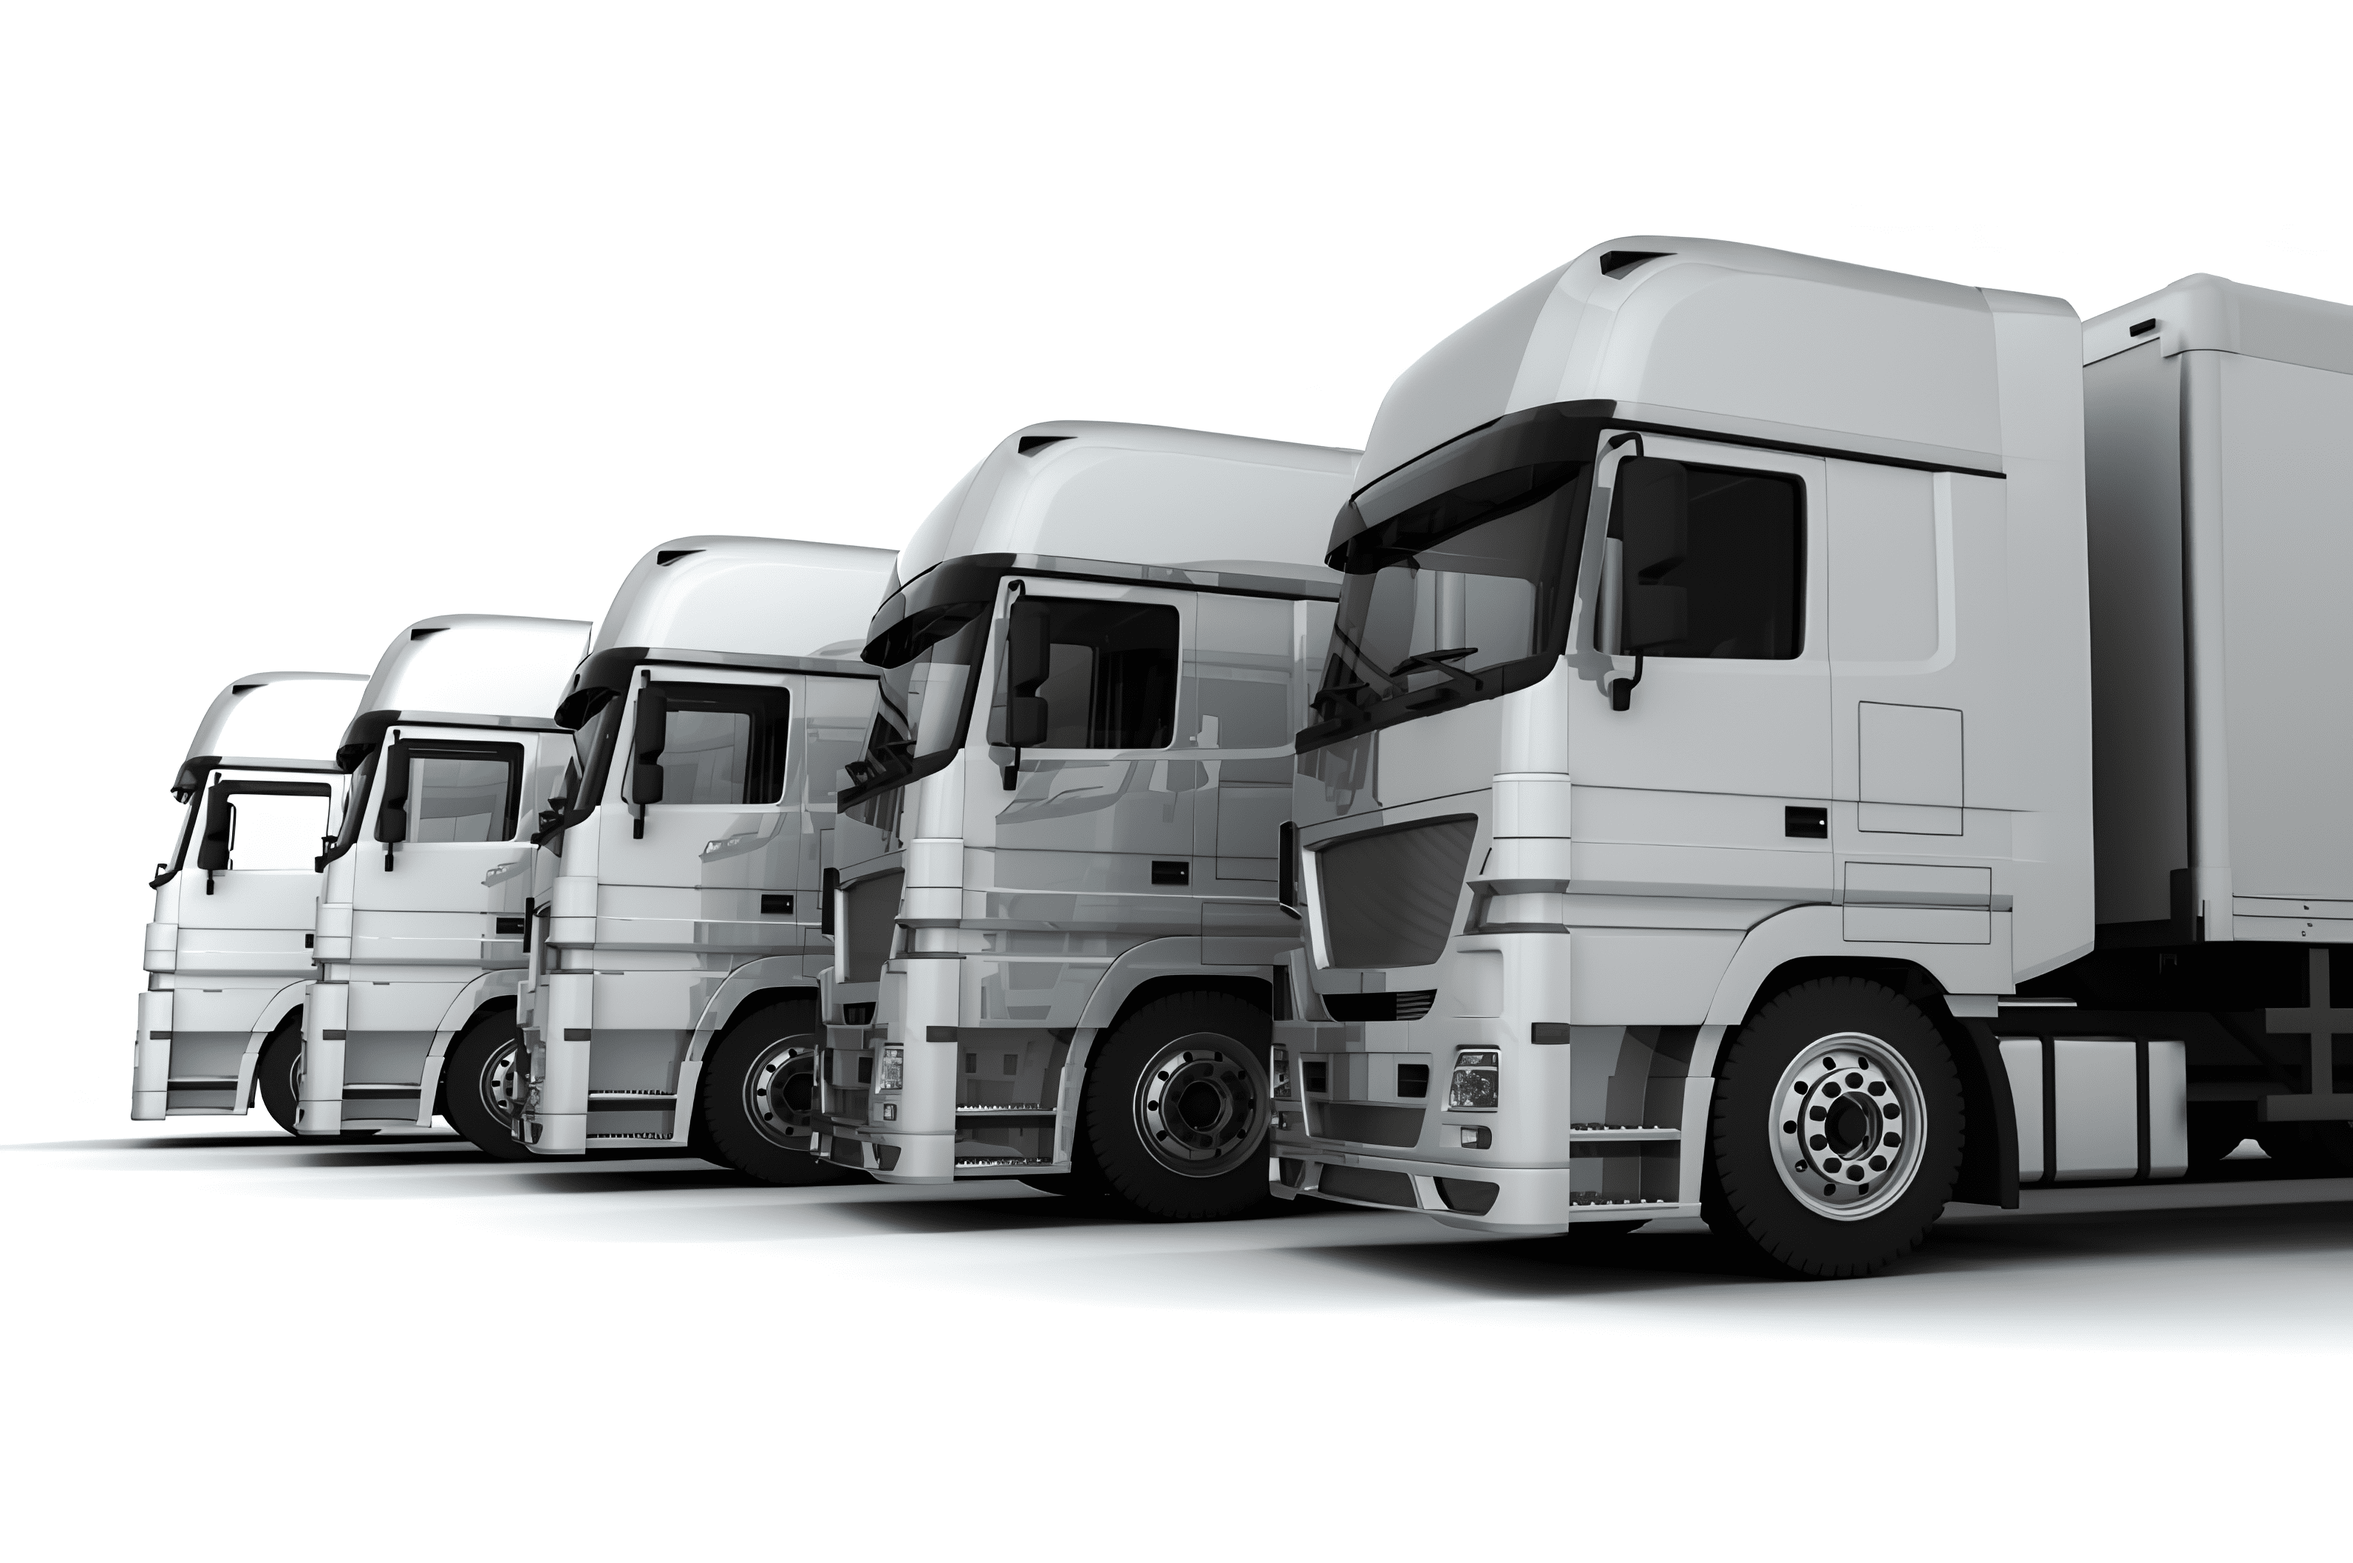
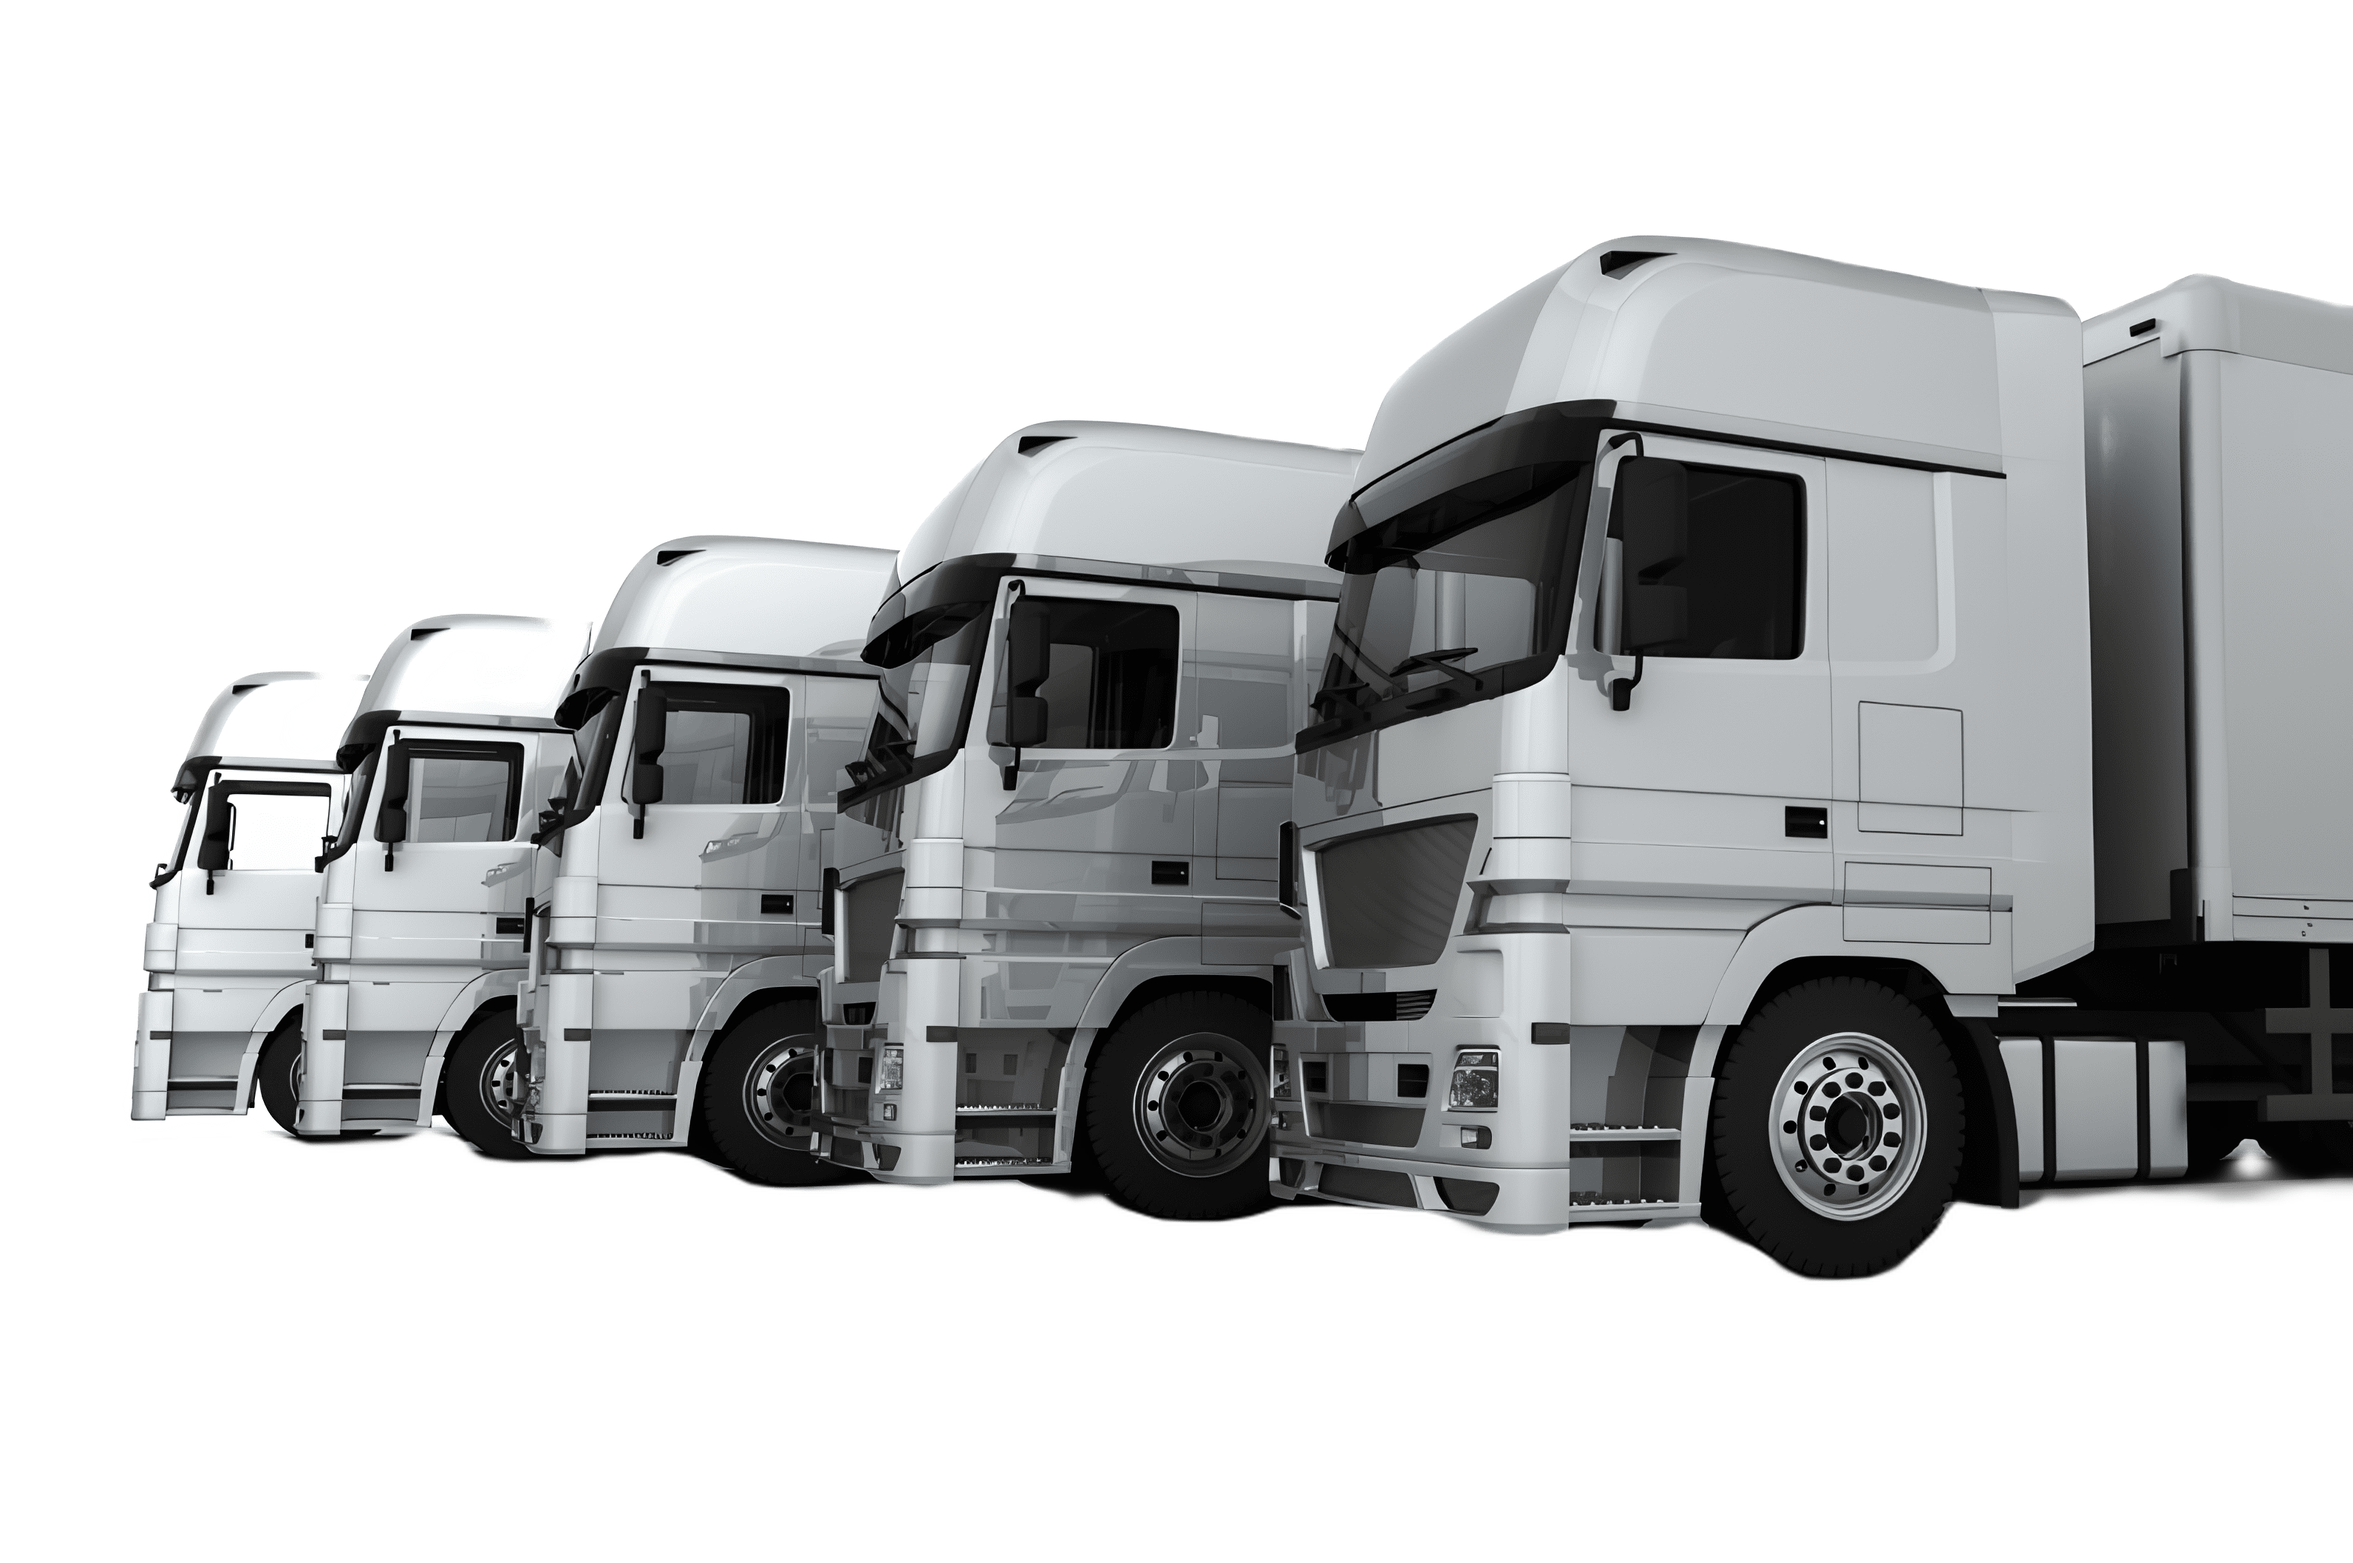
hero section is done

Changed region(s): [[0.0311, 0.7174, 1.0, 0.8733], [0.2177, 0.3743, 0.2487, 0.4055], [0.1244, 0.4055, 0.1555, 0.4367]]

diff --git a/src/Components/Main/Hero/Hero.jsx b/src/Components/Main/Hero/Hero.jsx
@@ -1,0 +1,29 @@
+import "./Hero.css";
+import HeroBg from "../../../assets/Images/heroBg.png";
+import Button from "../../../generic/Button/Button";
+const Hero = () => {
+  return (
+    <section className="hero-section">
+      <div className="container">
+        <div className="hero-section__wrapper">
+          <div className="hero-section__start">
+            <h1 className="hero-section__title">
+              Доступный сервис грузовых автомобилей
+            </h1>
+            <p className="hero-section__text">
+              Откройте для себя идеальное сочетание качества и доступности с
+              нашим сервисом грузовых автомобилей. Созданные для ваших нужд, мы
+              предлагаем надежные решения по выгодным ценам. Испытайте
+              исключительный сервис и экономическую эффективность вместе с нами
+              уже сегодня!
+            </p>
+            <Button>Чета сделать</Button>
+          </div>
+          <img className="hero-section__img" src={HeroBg} alt="truck image" />
+        </div>
+      </div>
+    </section>
+  );
+};
+
+export default Hero;

diff --git a/src/Components/Main/Hero/Hero.css b/src/Components/Main/Hero/Hero.css
@@ -1,0 +1,38 @@
+.hero-section {
+    padding: 65px 0;
+}
+
+.hero-section__title {
+    color                : #333;
+    font-feature-settings: 'liga'off;
+    font-size            : 60px;
+    font-weight          : 700;
+    line-height          : 60px;
+    width                : 100%;
+    max-width            : 540px;
+
+}
+
+.hero-section__text {
+    color                : #333333cc;
+    font-feature-settings: 'liga'off;
+    font-size            : 18px;
+    font-weight          : 400;
+    line-height          : normal;
+    width                : 100%;
+    max-width            : 496px;
+    line-height          : 25px;
+    margin               : 30px 0;
+}
+
+.hero-section__wrapper {
+    display        : flex;
+    align-items    : center;
+    justify-content: space-between;
+}
+
+.hero-section__img {
+    width    : 100%;
+    max-width: 850px;
+    height   : auto;
+}

diff --git a/src/Components/Main/Main.jsx b/src/Components/Main/Main.jsx
@@ -1,0 +1,13 @@
+import Hero from "./Hero/Hero";
+
+const Main = () => {
+  return (
+    <main style={{ background: "#FAFAFA" }}>
+      <div className="container">
+        <Hero />
+      </div>
+    </main>
+  );
+};
+
+export default Main;

diff --git a/src/App.jsx b/src/App.jsx
@@ -1,9 +1,11 @@
 import Header from "./Components/Header/Header";
+import Main from "./Components/Main/Main";
 
 function App() {
   return (
     <>
       <Header />
+      <Main />
     </>
   );
 }

diff --git a/src/index.css b/src/index.css
@@ -82,6 +82,7 @@ body {
   line-height           : 1.5;
   -webkit-font-smoothing: antialiased;
   font-family           : "Inter", "Arial", sans-serif;
+  background-color      : #fff;
 }
 
 p,
